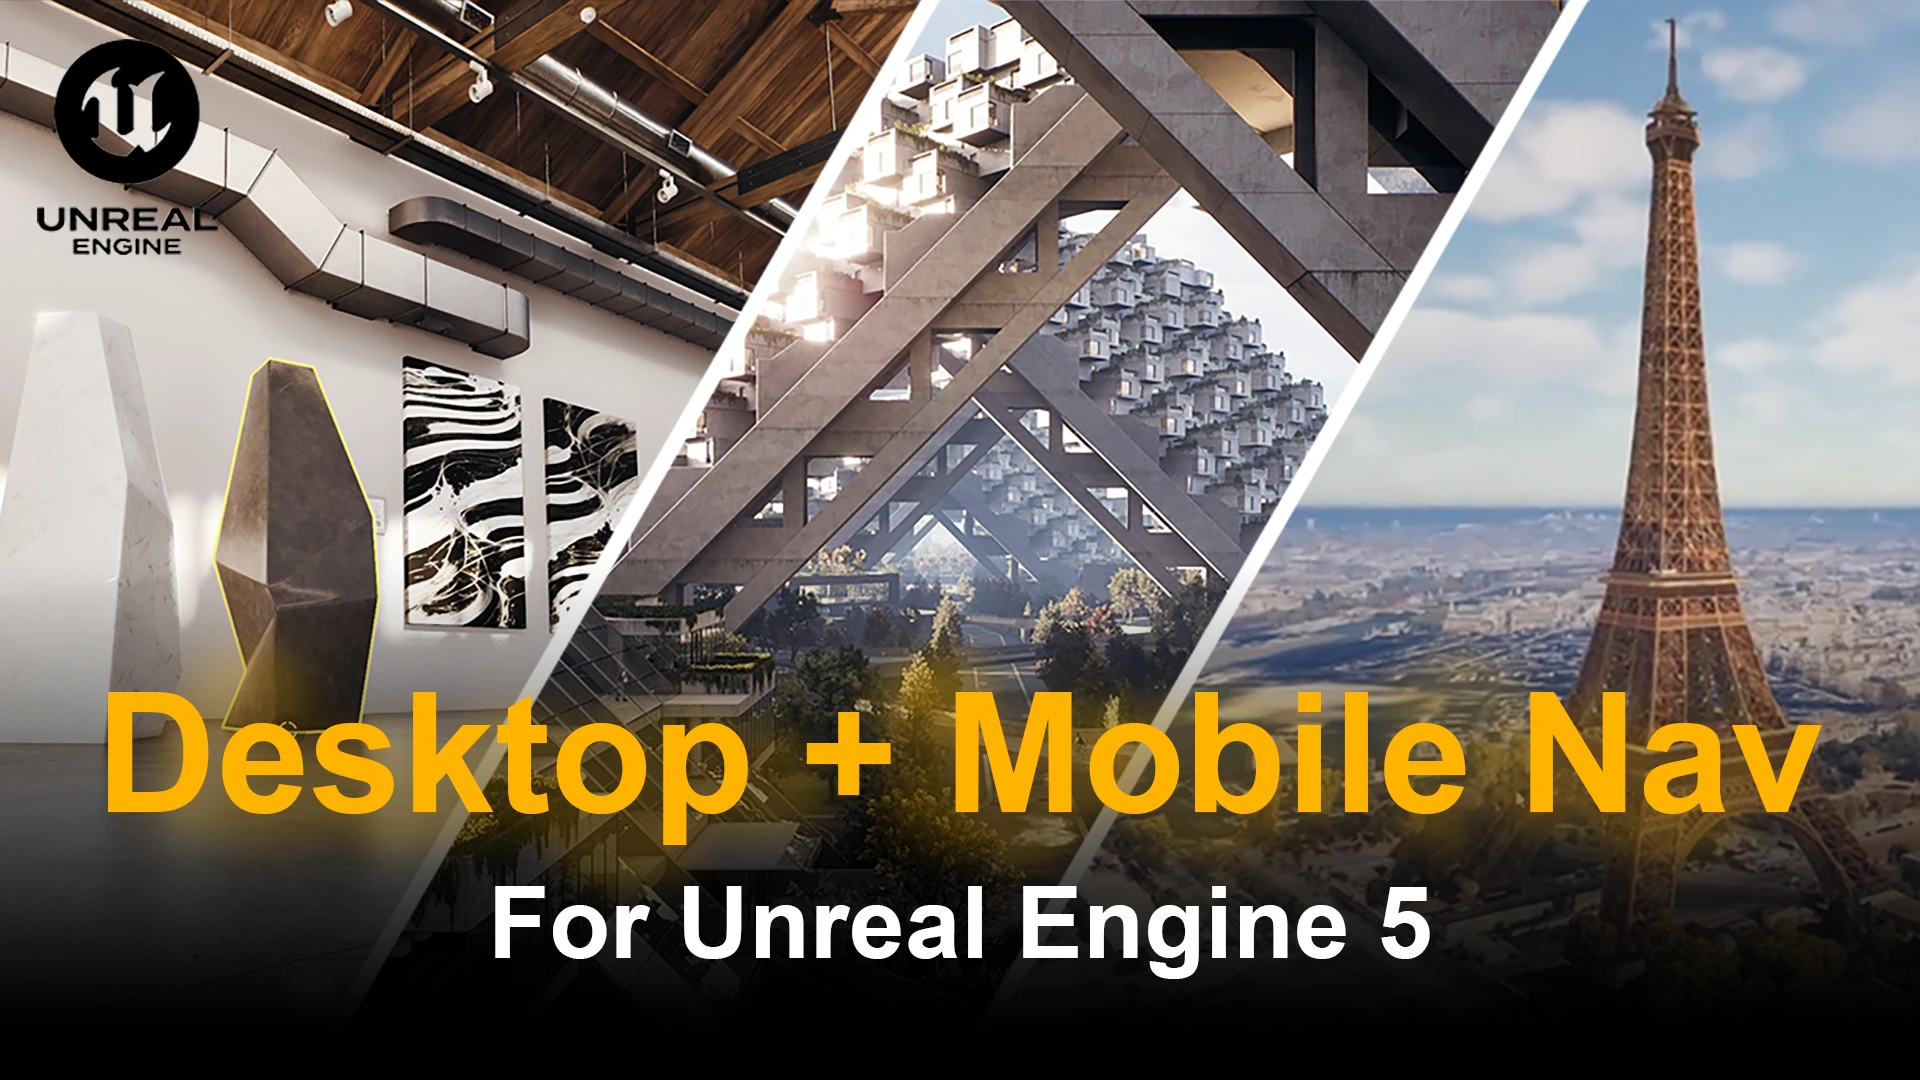
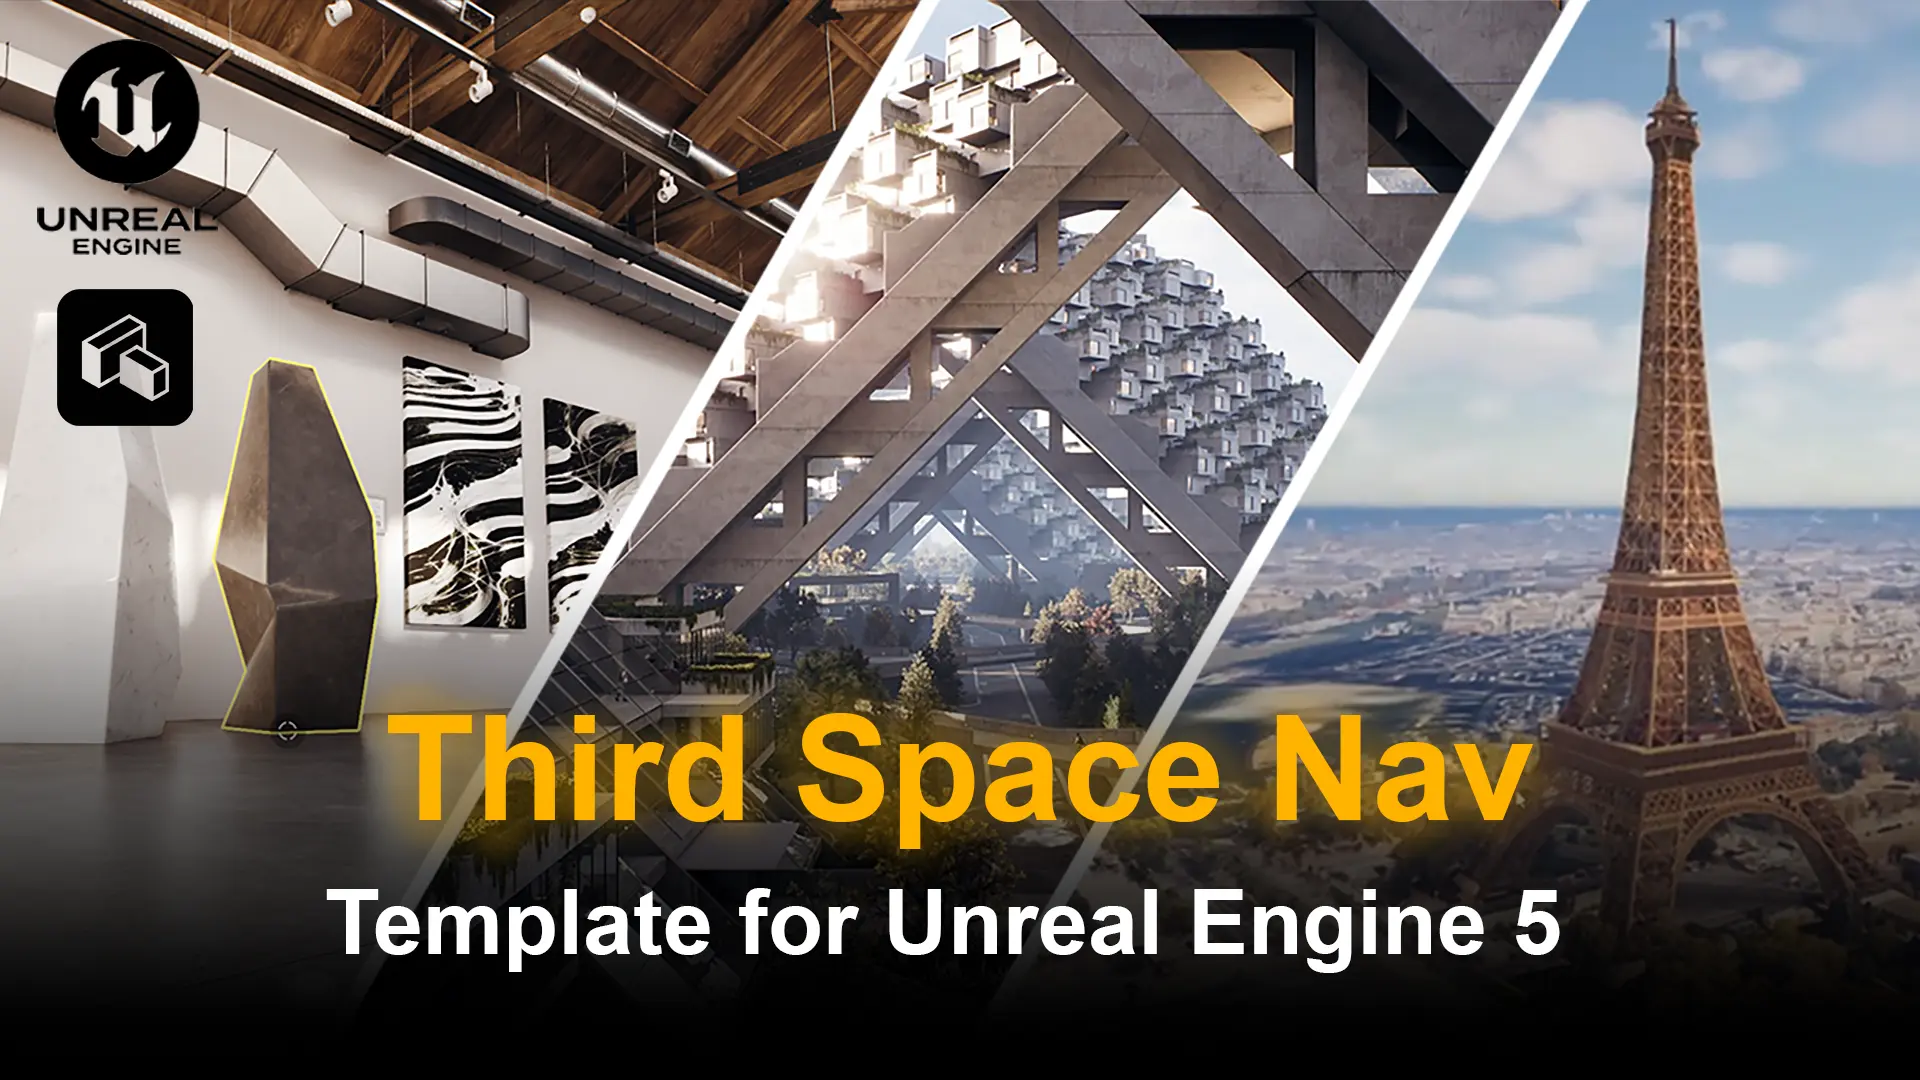
updated images and text descriptions for nav template

Changed region(s): [[0.0312, 0.5806, 0.9688, 0.9167], [0.0312, 0.2444, 0.125, 0.3972]]

diff --git a/docs/archviz-navigation/advanced-navigation/setup.md b/docs/archviz-navigation/advanced-navigation/setup.md
@@ -1,8 +1,8 @@
 # Advanced Navigation Setup
 
-Perfect for larger scale projects like neighbourhood or city explorers. The navigation is built to feel like Google Earth's navigation and is much more of a "free roam" or explore type.
+Perfect for larger scale projects like neighbourhood or city explorers. The navigation is inspired by Google Earth navigation's familiar feel and is much more of a "free roam" or explore type.
 
-> Part of the **UE5 Navigation Template** featuring Google Earth-style controls for architectural visualization.
+> Part of the **UE5 Navigation Template** for intuitive advanced controls for architectural visualization.
 
 ## When to Use Advanced Navigation
 
@@ -19,6 +19,7 @@ Perfect for larger scale projects like neighbourhood or city explorers. The navi
 3. Set your **Game Mode** to `TSI_Gamemode_Advanced`
 
 This will automatically configure:
+
 - Appropriate player character
 - Player controller
 - HUD class for advanced navigation
@@ -52,6 +53,7 @@ The advanced navigation system uses a unique anchor-based approach:
 ## Anchor System
 
 The `BP_NavAnchor` blueprint provides:
+
 - Dynamic position updates
 - Cursor-relative movement
 - Smooth exploration controls
@@ -61,21 +63,22 @@ The `BP_NavAnchor` blueprint provides:
 
 ## Key Differences from Basic
 
-| Feature | Basic Navigation | Advanced Navigation |
-|---------|-----------------|---------------------|
-| Best For | Single objects/buildings | Neighborhoods/cities |
-| Camera System | Spring arm | Fixed camera with anchor |
-| Movement Style | Center-focused orbit | Free roam exploration |
+| Feature        | Basic Navigation            | Advanced Navigation           |
+| -------------- | --------------------------- | ----------------------------- |
+| Best For       | Single objects/buildings    | Neighborhoods/cities          |
+| Camera System  | Spring arm                  | Fixed camera with anchor      |
+| Movement Style | Center-focused orbit        | Free roam exploration         |
 | Orbit Behavior | Always orbits screen center | Orbits any point under cursor |
-| Zoom Direction | Always toward center | Toward cursor position |
-| Panning | Standard pan | Cursor stays locked to object |
-| Scale | Small to medium | Large environments |
+| Zoom Direction | Always toward center        | Toward cursor position        |
+| Panning        | Standard pan                | Cursor stays locked to object |
+| Scale          | Small to medium             | Large environments            |
 
 ---
 
 ## Advanced Navigation Controls
 
 ### Third Person Mode (Default)
+
 - **Left Mouse Button** - Orbit around point under cursor (not center!)
 - **Right Mouse Button** - Pan camera (object stays under cursor)
 - **Mouse Wheel** - Zoom toward cursor position
@@ -83,6 +86,7 @@ The `BP_NavAnchor` blueprint provides:
 - **Hover Object** - Highlight object
 
 ### First Person Mode
+
 - **F Key** - Toggle first person mode
 - **Left Mouse Button** - Look around
 - **Right Mouse Button** - Strafe (WASD-style movement)
@@ -221,5 +225,5 @@ For other issues, see the [Troubleshooting Guide](../troubleshooting):
 ## Next Steps
 
 - [Selection System Configuration →](../selection-system)
-- [Troubleshooting →](../troubleshooting) *(Detailed collision fixes and common issues)*
-- [Basic Navigation →](../basic-navigation/setup) *(For simpler, center-focused navigation)*
+- [Troubleshooting →](../troubleshooting) _(Detailed collision fixes and common issues)_
+- [Basic Navigation →](../basic-navigation/setup) _(For simpler, center-focused navigation)_

diff --git a/docs/archviz-navigation/basic-navigation/setup.md b/docs/archviz-navigation/basic-navigation/setup.md
@@ -2,7 +2,7 @@
 
 Perfect for single focus assets ranging in scale from an object to a building.
 
-> Part of the **UE5 Navigation Template** featuring Google Earth-style controls for architectural visualization.
+> Part of the **UE5 Navigation Template** smooth controls for architectural visualization.
 
 ## When to Use Basic Navigation
 
@@ -66,6 +66,7 @@ For click-to-move functionality, assign collision to all walkable surfaces.
 ![Setting floor plate collision](/img/archviz-nav/floor-collision.webp)
 
 **What to tag as FloorPlate:**
+
 - Floor tiles
 - Ground planes
 - Walkable surfaces
@@ -145,6 +146,7 @@ To change the highlight color:
 Press **Alt + P** (or click Play) to test your navigation:
 
 ### Third Person Mode (Default)
+
 - **Left Mouse Button** - Orbit around focused point
 - **Right Mouse Button** - Pan camera
 - **Mouse Wheel** - Zoom in/out
@@ -152,6 +154,7 @@ Press **Alt + P** (or click Play) to test your navigation:
 - **Hover Object** - Highlight object
 
 ### First Person Mode
+
 - **F Key** - Switch to first person
 - **Left Mouse Button** - Look around
 - **Right Mouse Button** - Strafe (forward/backward/left/right)
@@ -159,6 +162,7 @@ Press **Alt + P** (or click Play) to test your navigation:
 - **Mouse Wheel** - Change FOV (zoom)
 
 **Verify:**
+
 - ✅ Camera spawns at Player Start location
 - ✅ Objects highlight when you hover over them
 - ✅ Clicking objects focuses camera and locks orbit
@@ -203,5 +207,5 @@ Having issues? See the [Troubleshooting Guide](../troubleshooting) for detailed 
 ## Next Steps
 
 - [Selection System Details →](../selection-system)
-- [Troubleshooting →](../troubleshooting) *(Common issues and solutions)*
-- [Advanced Navigation →](../advanced-navigation/setup) *(For larger scale projects)*
+- [Troubleshooting →](../troubleshooting) _(Common issues and solutions)_
+- [Advanced Navigation →](../advanced-navigation/setup) _(For larger scale projects)_

diff --git a/docs/archviz-navigation/index.md b/docs/archviz-navigation/index.md
@@ -1,10 +1,10 @@
 # UE5 Navigation Template
 
-## Google Earth Style Controls for Architectural Visualization
+## Smooth Intuitive Controls for Architectural Visualization, Product Configurators and City Explorers
 
 ![UE5 Navigation Template Thumbnail](/img/archviz-nav/template-thumbnail.webp)
 
-Thank you for purchasing the **UE5 Navigation Template**! This comprehensive navigation system features Google Earth-style controls designed specifically for architectural visualization projects with support for both desktop and mobile platforms.
+Thank you for purchasing the **UE5 Navigation Template**!
 
 ## Overview
 
@@ -73,6 +73,6 @@ Choose the navigation mode that best fits your project:
 
 ### Community Support
 
-- **Unreal Forums:** Search for "UE5 Navigation Template, Google Earth Style Controls"
+- **Unreal Forums:** Search for "Third Space Nav"
 - **FAB Reviews:** Check product reviews for user tips
 - **Discord:** Join Third Space Interactive community [Discord Channel](https://discord.gg/8pVjBjCe)
